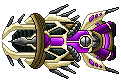
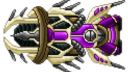
Adicionado Enemy3

diff --git a/Codigo/constant.py b/Codigo/constant.py
@@ -33,10 +33,12 @@ ENTITY_SPEED = {
     'Player1Shot': 3,
     'Player2': 4,
     'Player2Shot': 5,
-    'Enemy1': 1,
-    'Enemy1Shot': 3,
-    'Enemy2': 1,
-    'Enemy2Shot': 3,
+    'Enemy1': 2,
+    'Enemy1Shot': 4,
+    'Enemy2': 3,
+    'Enemy2Shot': 6,
+    'Enemy3': 1,
+    'Enemy3Shot': 7,
 }
 
 ENTITY_HEALTH = {
@@ -57,14 +59,16 @@ ENTITY_HEALTH = {
     'Level3Bg2': 999,
     'Level3Bg3': 999,
     'Level3Bg4': 999,
-    'Player1': 300,
+    'Player1': 500,
     'Player1Shot': 1,
-    'Player2': 300,
+    'Player2': 500,
     'Player2Shot': 1,
     'Enemy1': 60,
     'Enemy1Shot': 1,
     'Enemy2': 50,
     'Enemy2Shot': 1,
+    'Enemy3': 100,
+    'Enemy3Shot': 1,
 }
 
 ENTITY_DAMAGE = {
@@ -93,6 +97,8 @@ ENTITY_DAMAGE = {
     'Enemy1Shot': 30,
     'Enemy2': 1,
     'Enemy2Shot': 20,
+    'Enemy3': 1,
+    'Enemy3Shot': 50,
 }
 
 ENTITY_SCORE = {
@@ -121,6 +127,8 @@ ENTITY_SCORE = {
     'Enemy1Shot': 0,
     'Enemy2': 10,
     'Enemy2Shot': 0,
+    'Enemy3': 50,
+    'Enemy3Shot': 0,
 }
 
 ENTITY_SHOT_DELAY = {
@@ -128,12 +136,13 @@ ENTITY_SHOT_DELAY = {
     'Player2': 10,
     'Enemy1': 80,
     'Enemy2': 80,
+    'Enemy3': 60,
 }
 # Spawn_Enemy
-SPAWN_TIME = 1000
+SPAWN_TIME = 1500
 
 # Tempo de jogo
-TIMEOUT_LEVEL = 10000
+TIMEOUT_LEVEL = 30000
 TIMEOUT_STEP = 100
 
 

diff --git a/Codigo/level.py b/Codigo/level.py
@@ -58,7 +58,7 @@ class Level:
                     pygame.quit()
                     sys.exit()
                 if event.type == EVENT_ENEMY:
-                    choice = random.choice(('Enemy1', 'Enemy2'))
+                    choice = random.choice(('Enemy1', 'Enemy2', 'Enemy3'))
                     self.entity_list.append(EntityFactory.get_entity(choice))
                 if event.type == EVENT_TIMEOUT:
                     self.timeout -= TIMEOUT_STEP

diff --git a/Codigo/entityFactory.py b/Codigo/entityFactory.py
@@ -39,4 +39,6 @@ class EntityFactory:
                 return Enemy('Enemy1', (WIN_WIDTH + 10, random.randint(40, WIN_HEIGHT - 40)))
             case 'Enemy2':
                 return Enemy('Enemy2', (WIN_WIDTH + 10, random.randint(40, WIN_HEIGHT - 40)))
+            case 'Enemy3':
+                return Enemy('Enemy3', (WIN_WIDTH + 10, random.randint(40, WIN_HEIGHT - 40)))
 
